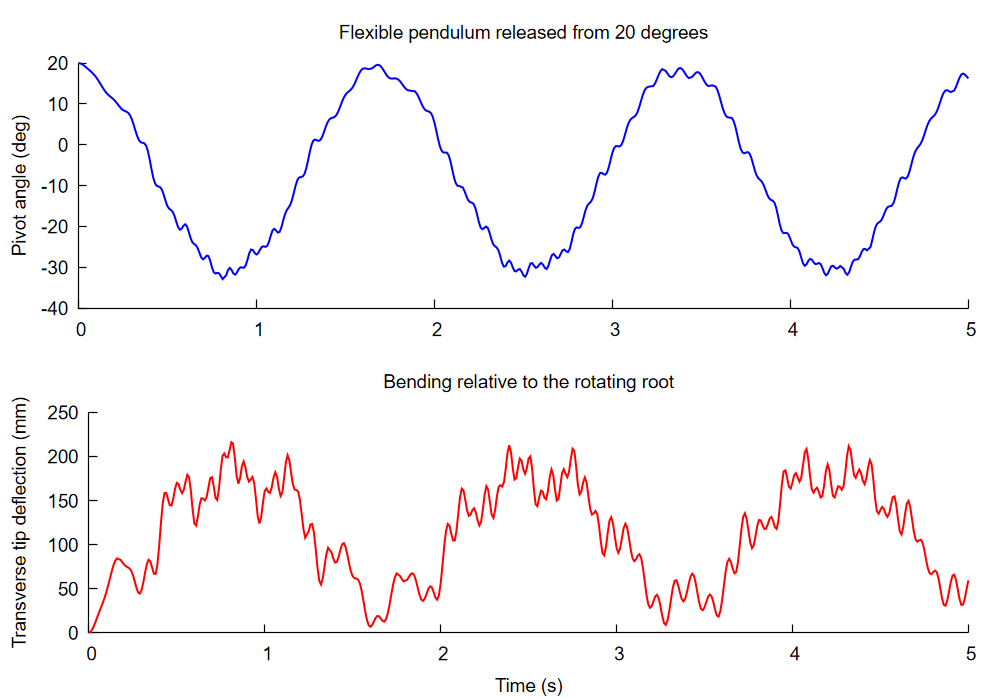
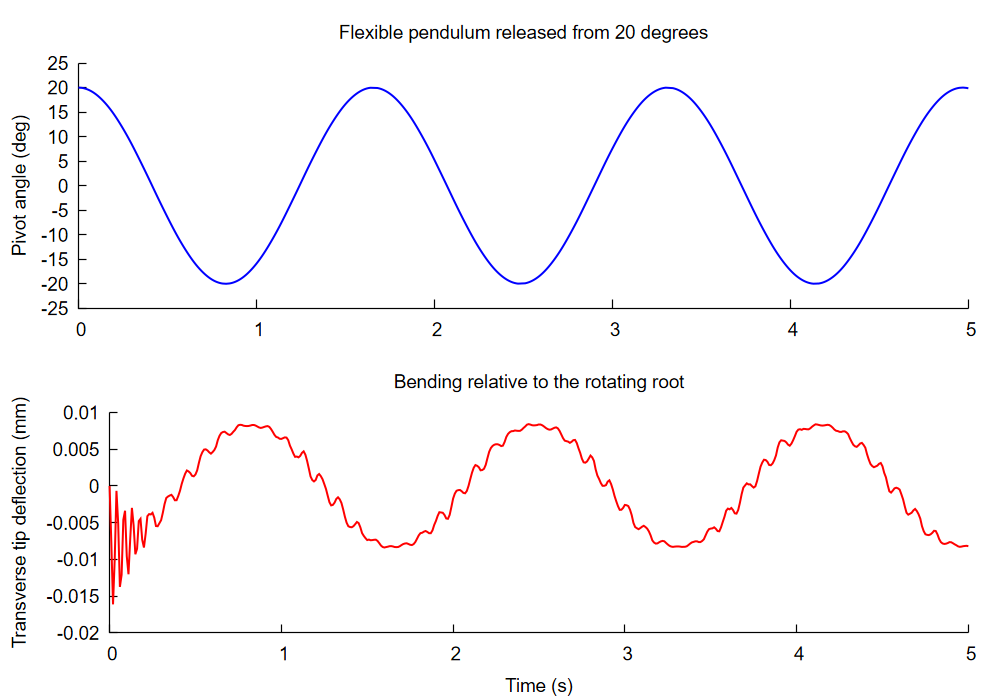
Update flexible pendulum example to use Timoshenko beam element; refine README for clarity

diff --git a/src/flexible_bodies/README.md b/src/flexible_bodies/README.md
@@ -277,12 +277,9 @@ call solve_flexible_transient(mesh, times, supports, initial, initial, q, v, set
 
 ![Flexible pendulum time histories: pivot angle and transverse tip deflection](../../images/flexible_pendulum_example.png?raw=true)
 
-The transverse deflection is **signed**, not an absolute value. It is the
+The transverse deflection is **signed**, and it is the
 projection of the pivot-to-tip vector onto the beam root's rotating normal,
-so rigid swing alone gives zero. The beam starts straight and, in the
-plotted response, the tip stays on the positive side of the line tangent
-to the beam at the root even as the pivot angle changes sign. The
-deflection would be negative if the tip crossed to the other side.
+so rigid swing alone gives zero.
 
 Build the `flexible_pendulum_example` target and run it with gnuplot available.
 The example prints peak transverse tip deflection and the maximum sampled
